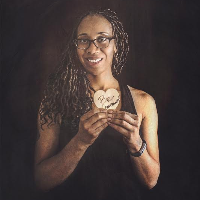
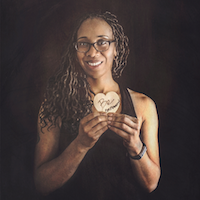
update photo quality of instructors

diff --git a/about.html b/about.html
@@ -448,7 +448,7 @@
                 <div id="meet-the-team" class="row">
                     <div class="col-md-4  col-sm-4 col-xs-12">
                         <div class="center team-member">
-                            <img class="img-responsive img-thumbnail fade-in" src="images/instructors/comingsoon.png" alt="">
+                            <img class="img-responsive img-thumbnail fade-in" src="images/instructors/adrianna.png" alt="">
                             <div class="team-content">
                                 <h5>Adrianna Milton
                                     <small class="role muted" style="font-size:82%">Front Desk</small>
